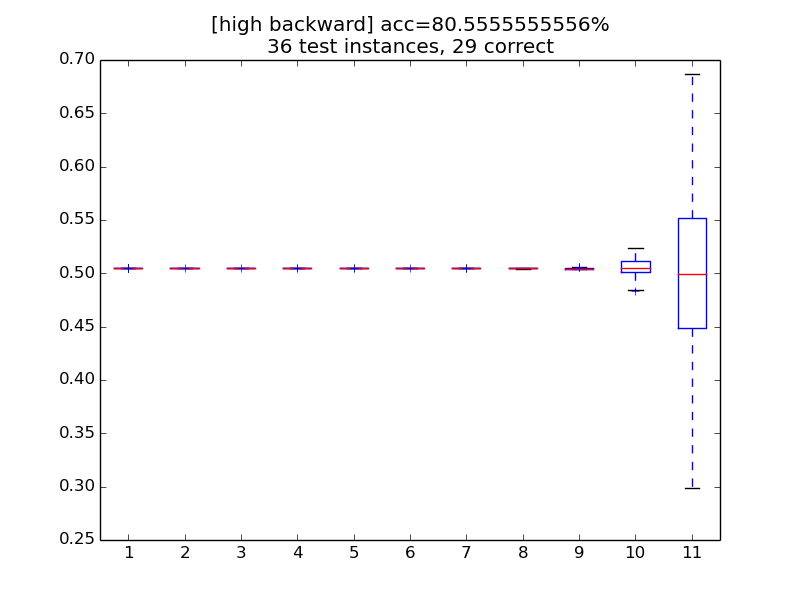
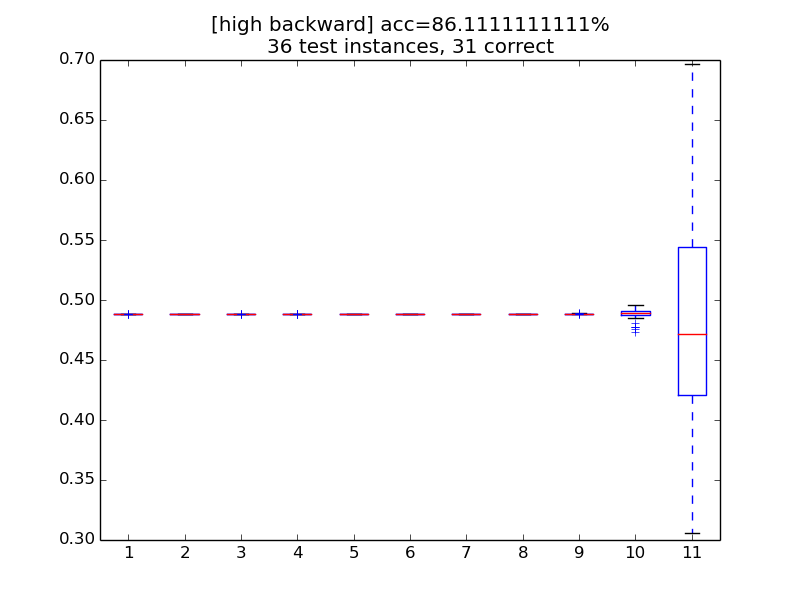
fix frequent nan problem

diff --git a/handwritten_digit/NeuralNet.py b/handwritten_digit/NeuralNet.py
@@ -388,7 +388,9 @@ class NeuralNet(BaseEstimator):
             accuracy = loss_eval
 
         all_params = self.get_all_params(trainable=True)
+        print('loss:{0}'.format(loss_train))
         grads = theano.grad(loss_train, all_params)
+        print('grad:{0}'.format(grads))
         for idx, param in enumerate(all_params):
             grad_scale = getattr(param.tag, 'grad_scale', 1)
             if grad_scale != 1:
@@ -518,6 +520,8 @@ class NeuralNet(BaseEstimator):
                 avg_valid_loss = np.average(
                     valid_losses, weights=batch_valid_sizes)
             else:
+                epoch -= 1
+                continue
                 avg_valid_loss = np.nan
 
             avg_valid_accuracy = np.mean(valid_accuracies)
